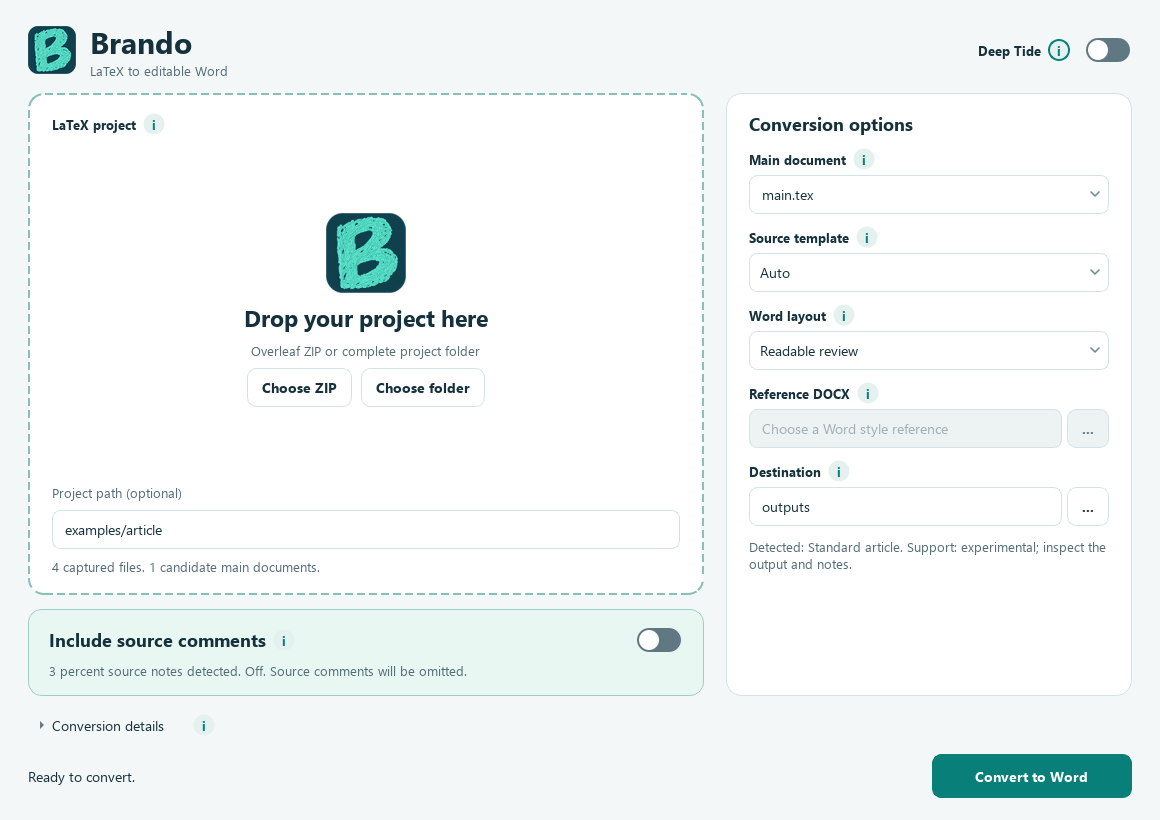
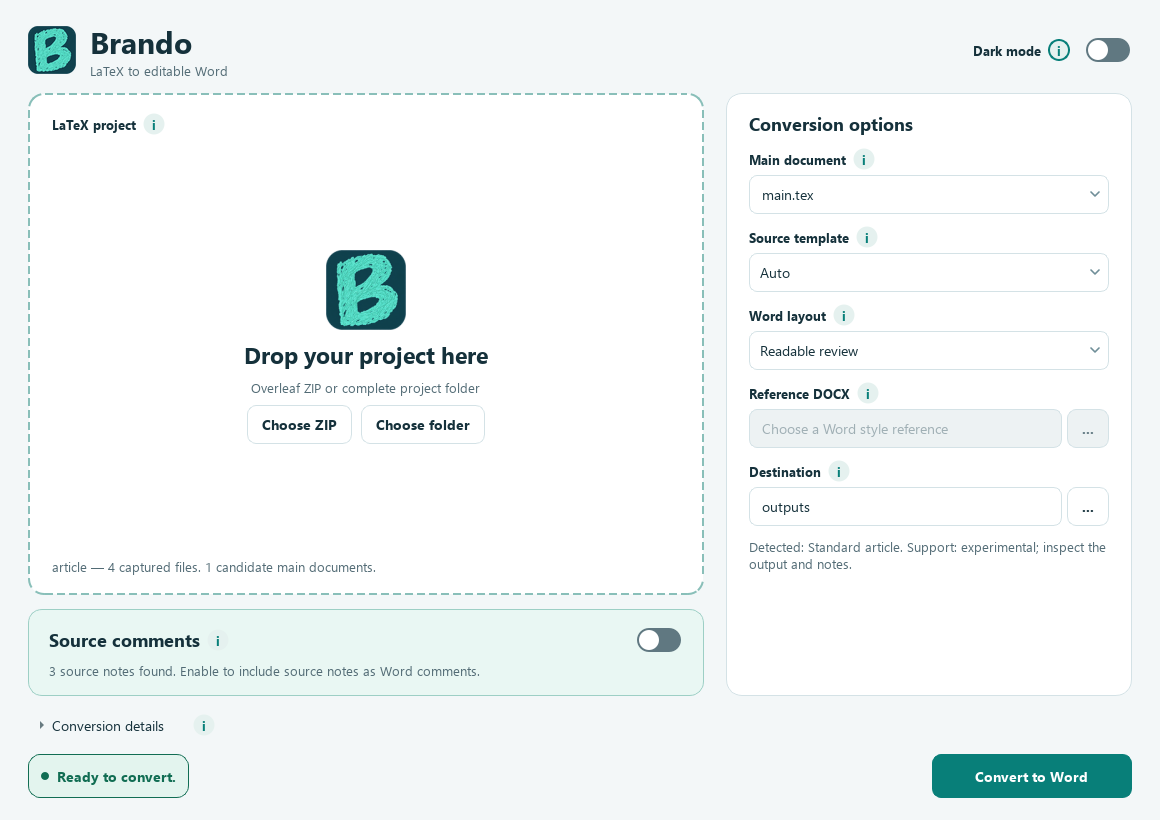
docs: refresh simplified desktop guidance and previews

diff --git a/README.md b/README.md
@@ -15,14 +15,13 @@ directory together, unzip it to a writable local folder and open `Brando.exe`. E
 of this bundle do not need Python, Git, Pandoc or TeX. Public installation assets have not
 been published. See [build and validation instructions](docs/BUILDING.md).
 
-1. Select or drop an Overleaf **source ZIP** or a project folder. Alternatively, paste its
-   path in **Project path (optional)** and press **Enter** to load it. Moving focus alone
-   does not load a typed path; conversion stays disabled while a changed path is unconfirmed.
+1. Select or drop an Overleaf **source ZIP** or a project folder. The selected project name
+   appears below the drop area controls.
 2. Choose the main `.tex` file if there are several candidates. Convert separate supplements
    separately; independently compilable `subfiles` chapters are not automatically roots.
 3. Leave source template on **Auto**, or override it. Choose readable review styling or a
    reference DOCX. Source recognition and Word styling are separate choices.
-4. Optionally turn on **Include source comments**. It starts off.
+4. Optionally enable **Source comments**. Comments start disabled.
    Each option has an adjacent information button. The interface shows detected note counts
    and whether comments will be exported. The default destination is `Documents/Brando_exports`.
 5. Choose an output folder outside the source folder, then select **Convert to Word**.
@@ -33,10 +32,12 @@ Each export has a fresh timestamped folder containing `manuscript.docx`,
 unchanged. The report records input/output hashes, engine diagnostics, math coverage,
 independent source observations and actual comment coverage.
 
-The Lagoon interface starts with a large project drop area and a dedicated source-comment
-control. The small **Deep Tide** slide in the header changes the color palette while preserving
-the layout and conversion choices. Each new window starts in Lagoon. Information buttons
+The interface starts in light mode with a large project drop area and a dedicated source-comment
+control. The **Dark mode** switch in the header changes the color palette while preserving
+the layout and conversion choices. Each new window starts in light mode. Information buttons
 beside the options show short, wrapped help on hover or activation with the keyboard.
+A compact status indicator shows setup, progress, readiness and errors. It turns green when
+the required conversion options are complete and red when an error needs attention.
 **Conversion details** shows session progress, warnings and errors in a read-only panel.
 It becomes available after there is something to show, and opens automatically on errors
 or conversion warnings. The panel explains where the saved notes and report are stored.
@@ -44,9 +45,9 @@ or conversion warnings. The panel explains where the saved notes and report are 
 the full diagnostic and coverage details. Both are saved beside `manuscript.docx` in the
 new export folder. These diagnostics are separate from the source comments inside Word.
 
-![Lagoon desktop](docs/images/desktop.png)
+![Light mode desktop](docs/images/desktop.png)
 
-![The same desktop with Deep Tide colors](docs/images/desktop-dark.png)
+![Dark mode desktop](docs/images/desktop-dark.png)
 
 ## Compatibility targets
 

diff --git a/docs/VALIDATION.md b/docs/VALIDATION.md
@@ -4,7 +4,7 @@ Updated 2026-11-11. Development host is Windows x86-64, CPython 3.12.16.
 
 ## Completed evidence
 
-- Full synthetic regression suite completed with 49 passing tests on the Windows host.
+- Full synthetic regression suite completed with 51 passing tests on the Windows host.
   It includes Qt offscreen scan, conversion, drop and ambiguous-root behavior, numerical
   tampering detection, nested-main paths, encoding adaptation and inline annotation opt-in.
   A simulated report-write failure also verifies cleanup without a partial export.
@@ -17,18 +17,23 @@ Updated 2026-11-11. Development host is Windows x86-64, CPython 3.12.16.
 - Information controls were exercised with mouse hover, click and keyboard activation in both
   palettes. Help stays anchored while the pointer moves within the button; actual multiline
   rendering stays below 340 pixels wide. Eighteen rendered tips across both themes were
-  measured. The Brando wordmark uses its capital B. Manual path input loads only on Enter;
-  changing focus does not import an unfinished path, and draft edits disable stale conversion.
+  measured. The Brando wordmark uses its capital B. Project selection uses ZIP/folder buttons
+  or drop, with the chosen project name shown and no manual path input. The Source comments
+  summary follows its switch, with native Word comment counts verified for both export states.
+  The header names its appearance switch Dark mode.
+  The footer status indicator follows idle, busy, ready and error transitions. Regressions in
+  both modes verify actual green/red text colors and require a main document, destination and
+  reference path when reference styling is selected before enabling conversion.
   The details panel is unavailable while empty and explains progress/warnings, the saved note
   and report filenames, and their distinction from Word comments. Compact error captures retain
   visible conversion actions.
-- The selected Lagoon desktop has a large drop target and prominent source-comment switch.
-  Deep Tide changes colors in place. Keyboard theme activation preserves widget geometry,
+- The light desktop has a large drop target and prominent source-comment switch.
+  Dark mode changes colors in place. Keyboard theme activation preserves widget geometry,
   captured input and conversion choices, including during conversion. ZIP and folder drop
   events are delivered through Qt to the large target. Compact-window captures verify scrolling
   with conversion actions available. The approved crayon B icon is used by the window.
 - The selected crayon B identity (concept 07) uses mint artwork on a rounded petrol tile
-  in the header, drop target, window and Windows executable. Actual Lagoon/Deep Tide screenshots
+  in the header, drop target, window and Windows executable. Actual light/dark screenshots
   and icon renders at 16-256 pixels were inspected. All seven EXE icon payloads match the ICO
   exactly. All four production resources match their bundled copies. The full regression suite,
   Ruff checks and relocated package smoke passed after replacement.

diff --git a/docs/ARCHITECTURE.md b/docs/ARCHITECTURE.md
@@ -19,9 +19,11 @@
 - `widgets.py` provides the large project drop target, keyboard-operable switches and option
   information controls. Help wraps within a bounded tooltip, with a short hover delay and
   stable placement beside its control; click/Space opens it and Escape dismisses it.
-  Manual project paths load on Enter, with draft edits disabling conversion of an older snapshot.
+  ZIP/folder selection and drop use the same capture entry point and display the selected name.
   The read-only details panel explains session messages and their saved export counterparts.
-  `appearance.py` applies Lagoon or Deep Tide to the same widget tree.
+  The footer indicator and conversion button share the required-option readiness check.
+  Status uses neutral, progress, green-ready and red-error colors with a readable text label.
+  `appearance.py` applies light or dark colors to the same widget tree.
   The theme choice is local to the window session. Compact windows scroll the content while
   conversion actions remain available.
 - `desktop.py` isolates Windows application identity and per-window native title-bar colors.
